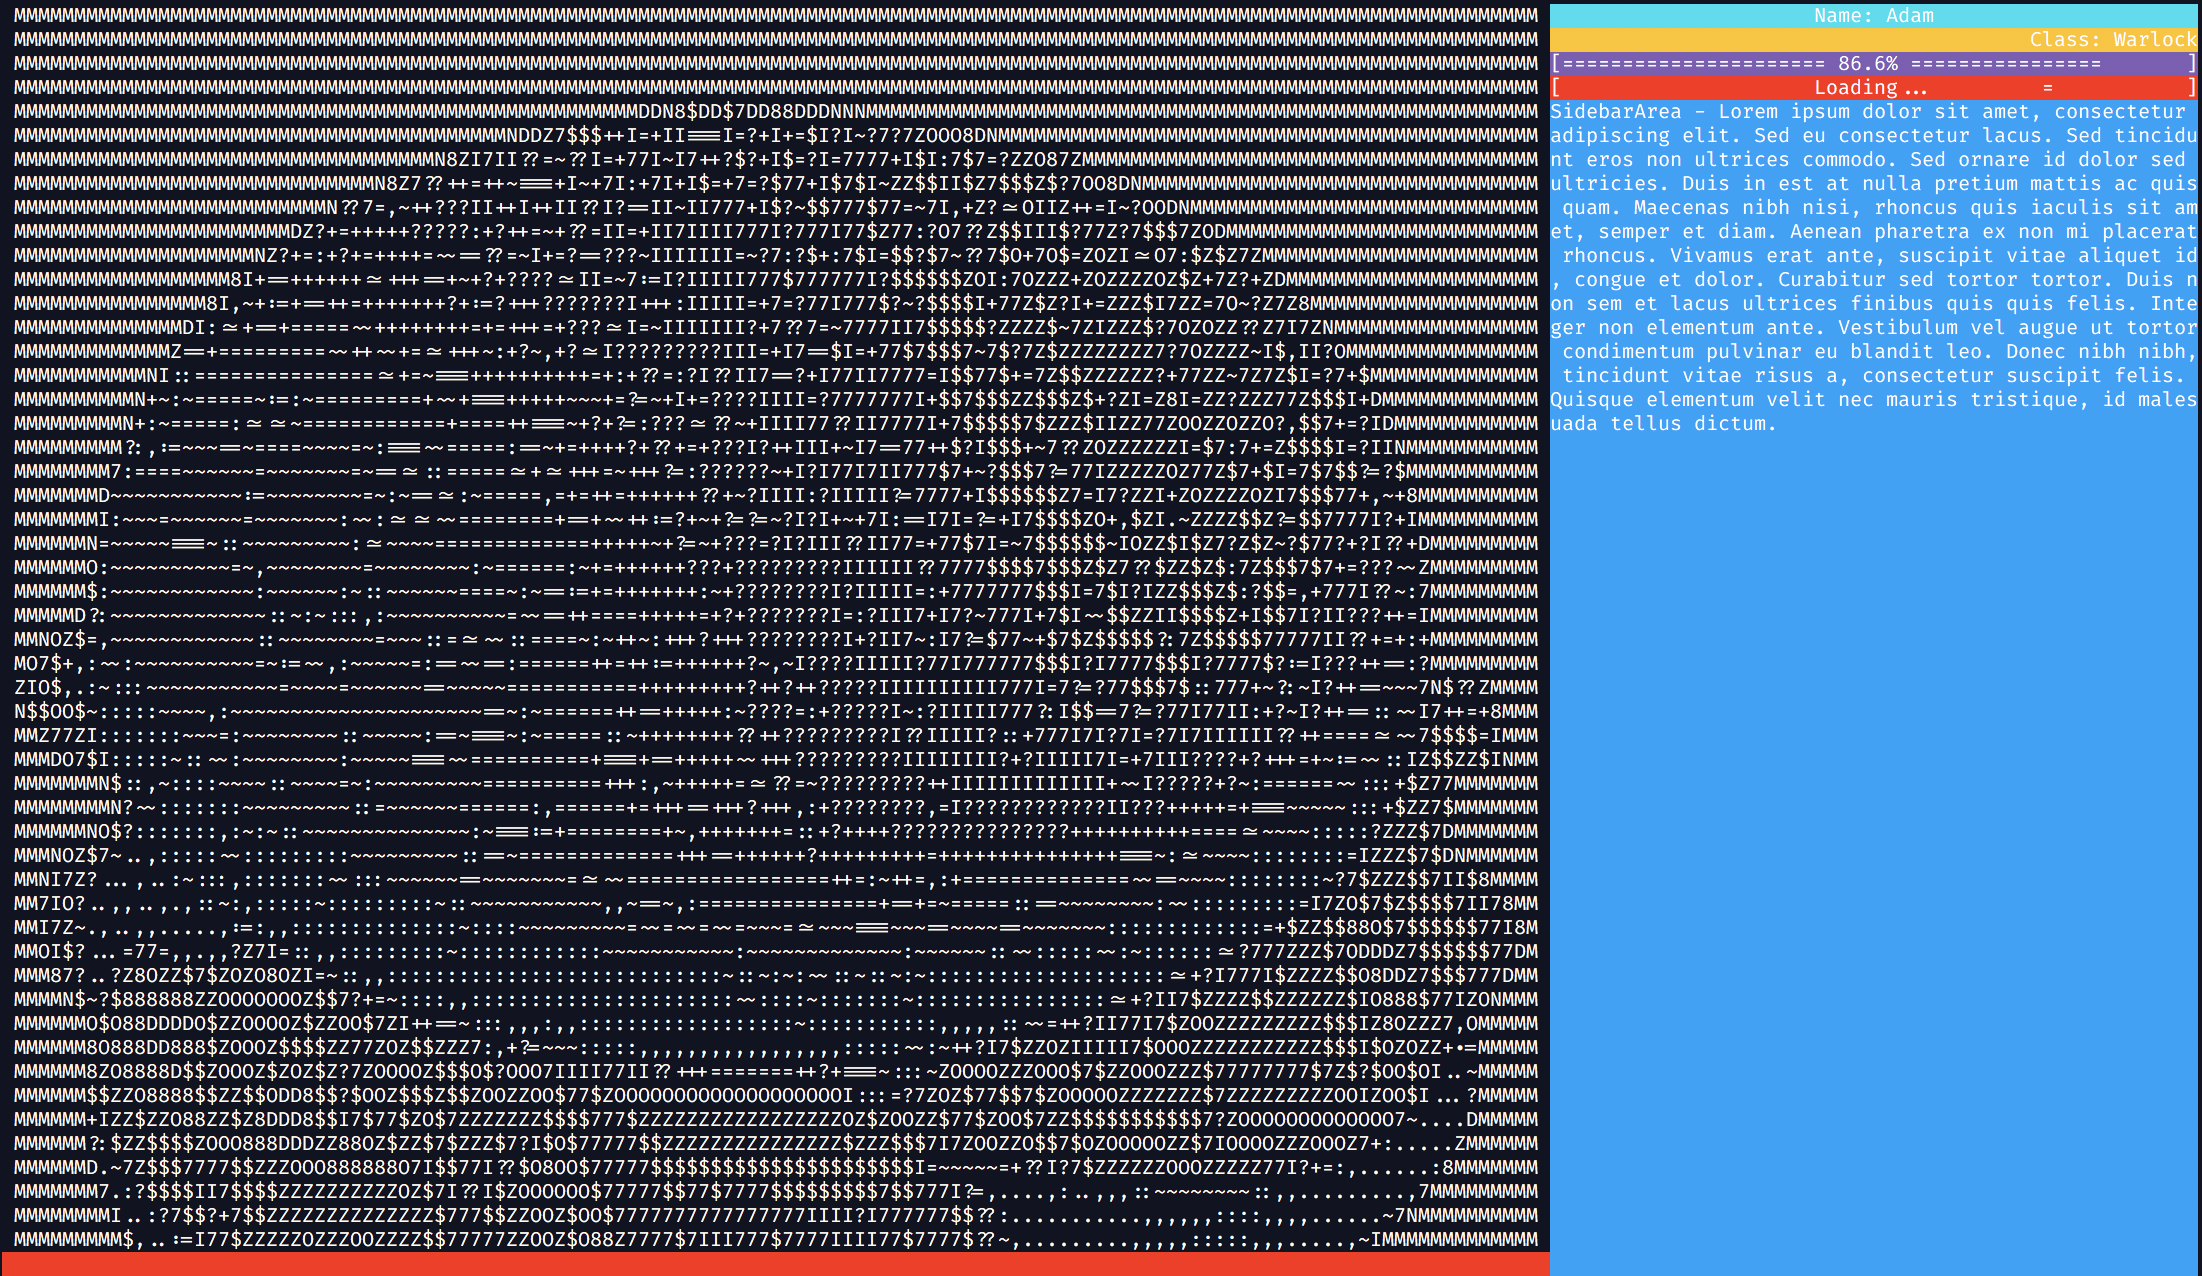
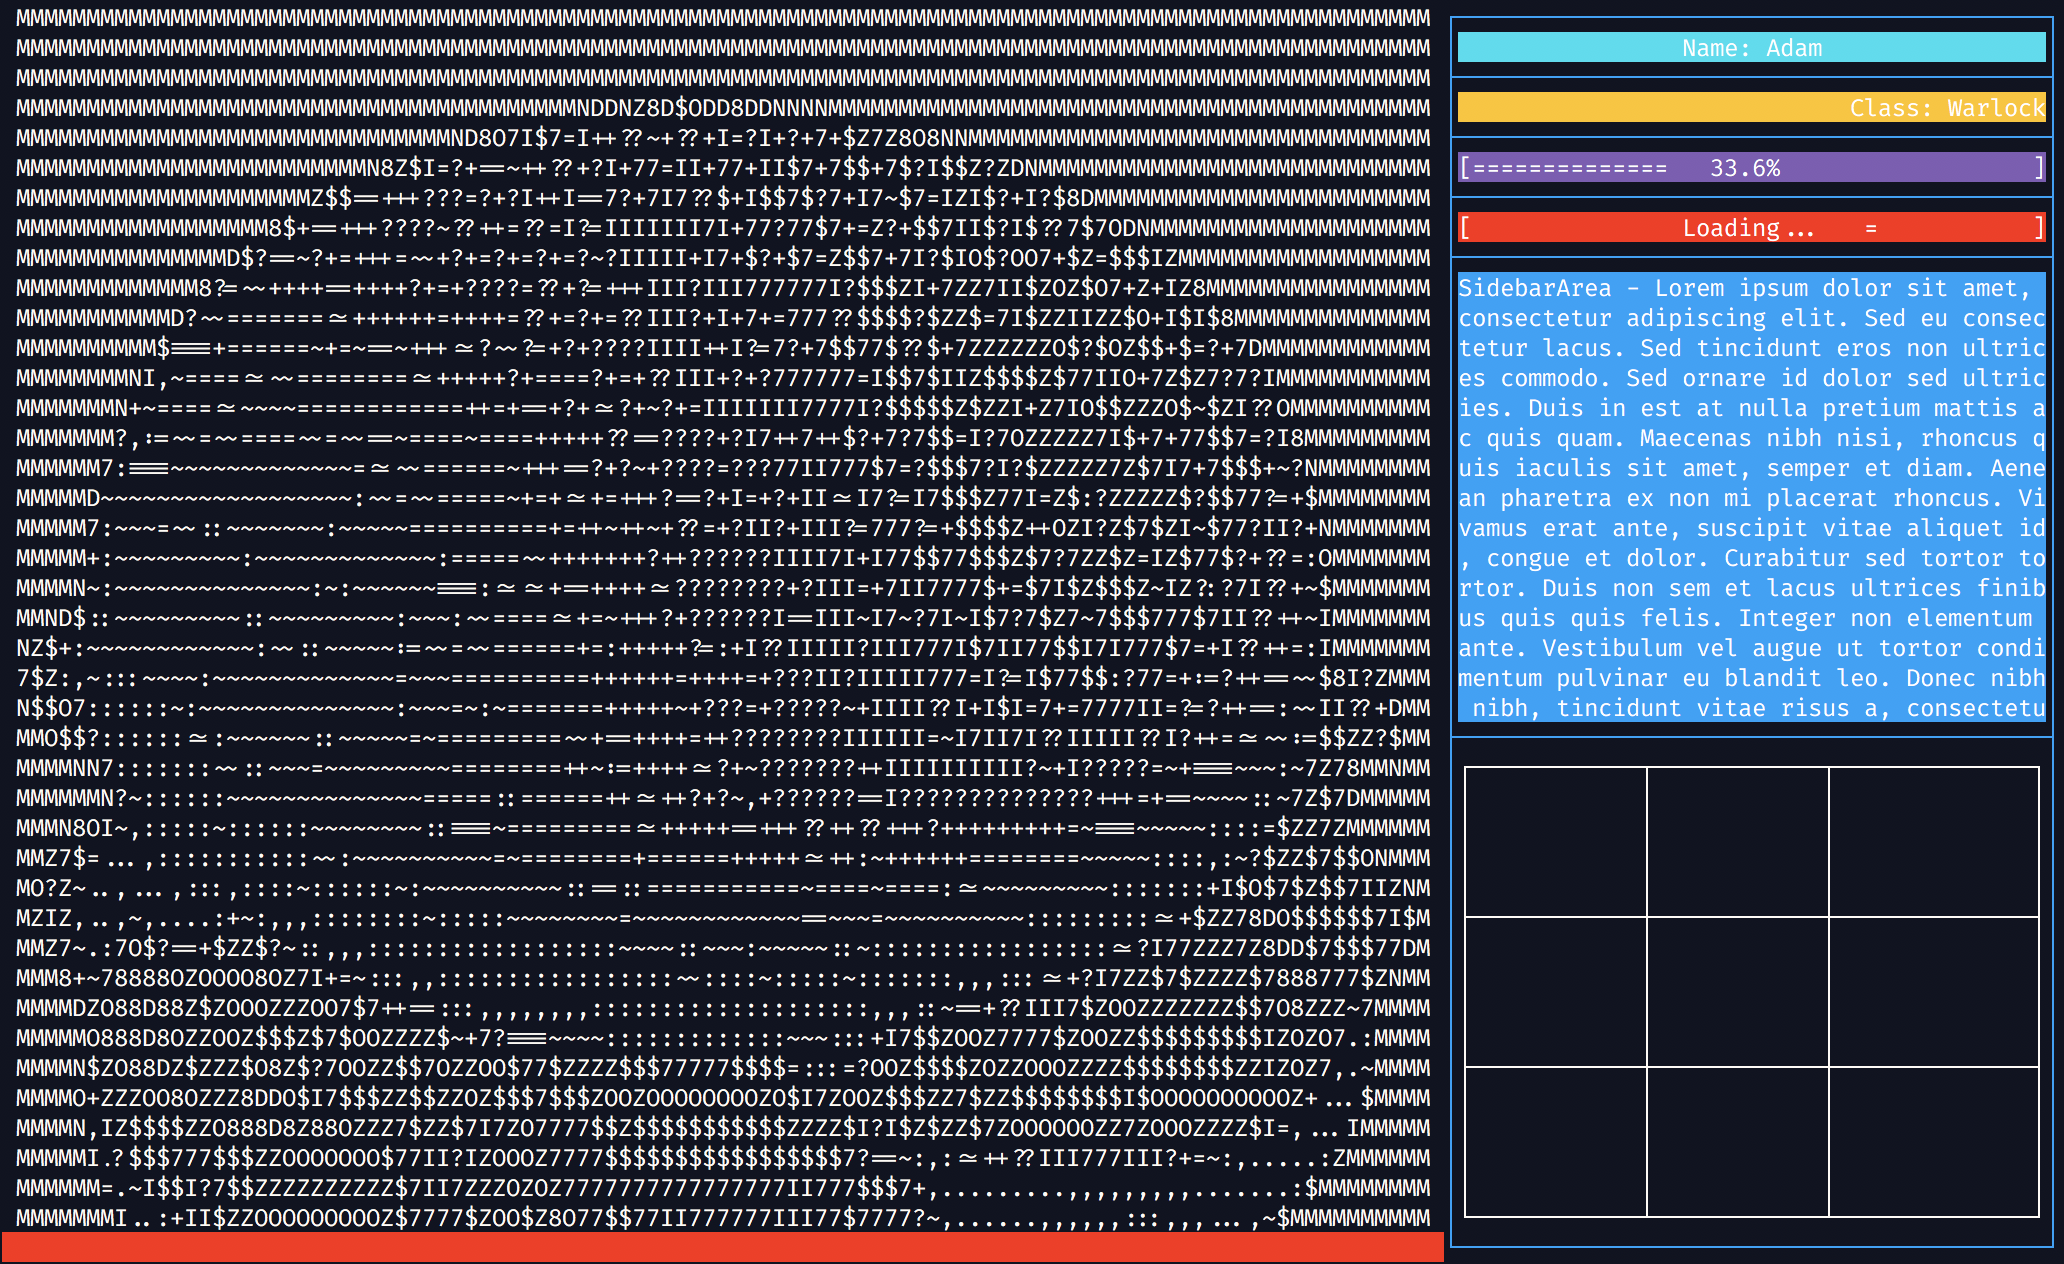
Updating README

diff --git a/README.md b/README.md
@@ -4,11 +4,12 @@ A UI toolkit based on termbox. Most of the paradigms used here are inspired by C
 ### Currently Implemented
 
 * Event broadcast
+* ActivityView
 * Grid
-* TextView
 * ImageView
 * ProgressView
-* ActivityView
+* TableView (similar to Grid, but with borders)
+* TextView
 * InputView (incomplete)
 
 ### Example
@@ -41,10 +42,12 @@ A UI toolkit based on termbox. Most of the paradigms used here are inspired by C
 		RowSizes:    []size.Size{size.Auto, size.WithPoints(1)},
 	}
 
-	sidebarGrid := Grid{
-		ColumnSizes: []size.Size{size.Auto},
-		RowSizes:    []size.Size{size.WithPoints(1), size.WithPoints(1), size.WithPoints(1), size.WithPoints(1), size.Auto},
-	}
+	sidebarGrid := NewTableView(
+		[]size.Size{size.Auto},
+		[]size.Size{size.WithPoints(1), size.WithPoints(1), size.WithPoints(1), size.WithPoints(1), size.Auto, size.Auto},
+		termbox.ColorBlue,
+		termbox.ColorDefault,
+	)
 
 	sidebarGrid.AddView(&TextView{
 		Text:            "Name: Adam",
@@ -66,14 +69,18 @@ A UI toolkit based on termbox. Most of the paradigms used here are inspired by C
 		BackgroundColor: termbox.ColorMagenta,
 		MinimumValue:    0,
 		MaximumValue:    1000,
-		CurrentValue:    666,
+		CurrentValue:    0,
 	}
 
-	progressTimer := time.NewTimer(time.Second * 2)
+	progressTimer := time.NewTicker(time.Millisecond * 250)
 	go func() {
-		<-progressTimer.C
-		progress.CurrentValue += 200
-		progress.Draw()
+		for _ = range progressTimer.C {
+			progress.CurrentValue += (rand.Int31() % 200)
+			if progress.CurrentValue > 1000 {
+				progress.CurrentValue = 0
+			}
+			progress.Draw()
+		}
 	}()
 	sidebarGrid.AddView(&progress, Area{0, 0, 2, 2})
 
@@ -88,6 +95,15 @@ A UI toolkit based on termbox. Most of the paradigms used here are inspired by C
 		ForegroundColor: termbox.ColorWhite,
 		BackgroundColor: termbox.ColorBlue,
 	}, Area{0, 0, 4, 4})
+
+	sampleTable := NewTableView(
+		[]size.Size{size.Auto, size.Auto, size.Auto},
+		[]size.Size{size.Auto, size.Auto, size.Auto},
+		termbox.ColorDefault,
+		termbox.ColorDefault,
+	)
+
+	sidebarGrid.AddView(&sampleTable, Area{0, 0, 5, 5})
 
 	f, err := os.Open("test.jpg")
 	if err != nil {
@@ -121,6 +137,8 @@ A UI toolkit based on termbox. Most of the paradigms used here are inspired by C
 	app.RegisterEventListener(event.SystemKeyPress, v)
 
 	app.Run()
+
+  // App logic
 ```
 
 produces the following
